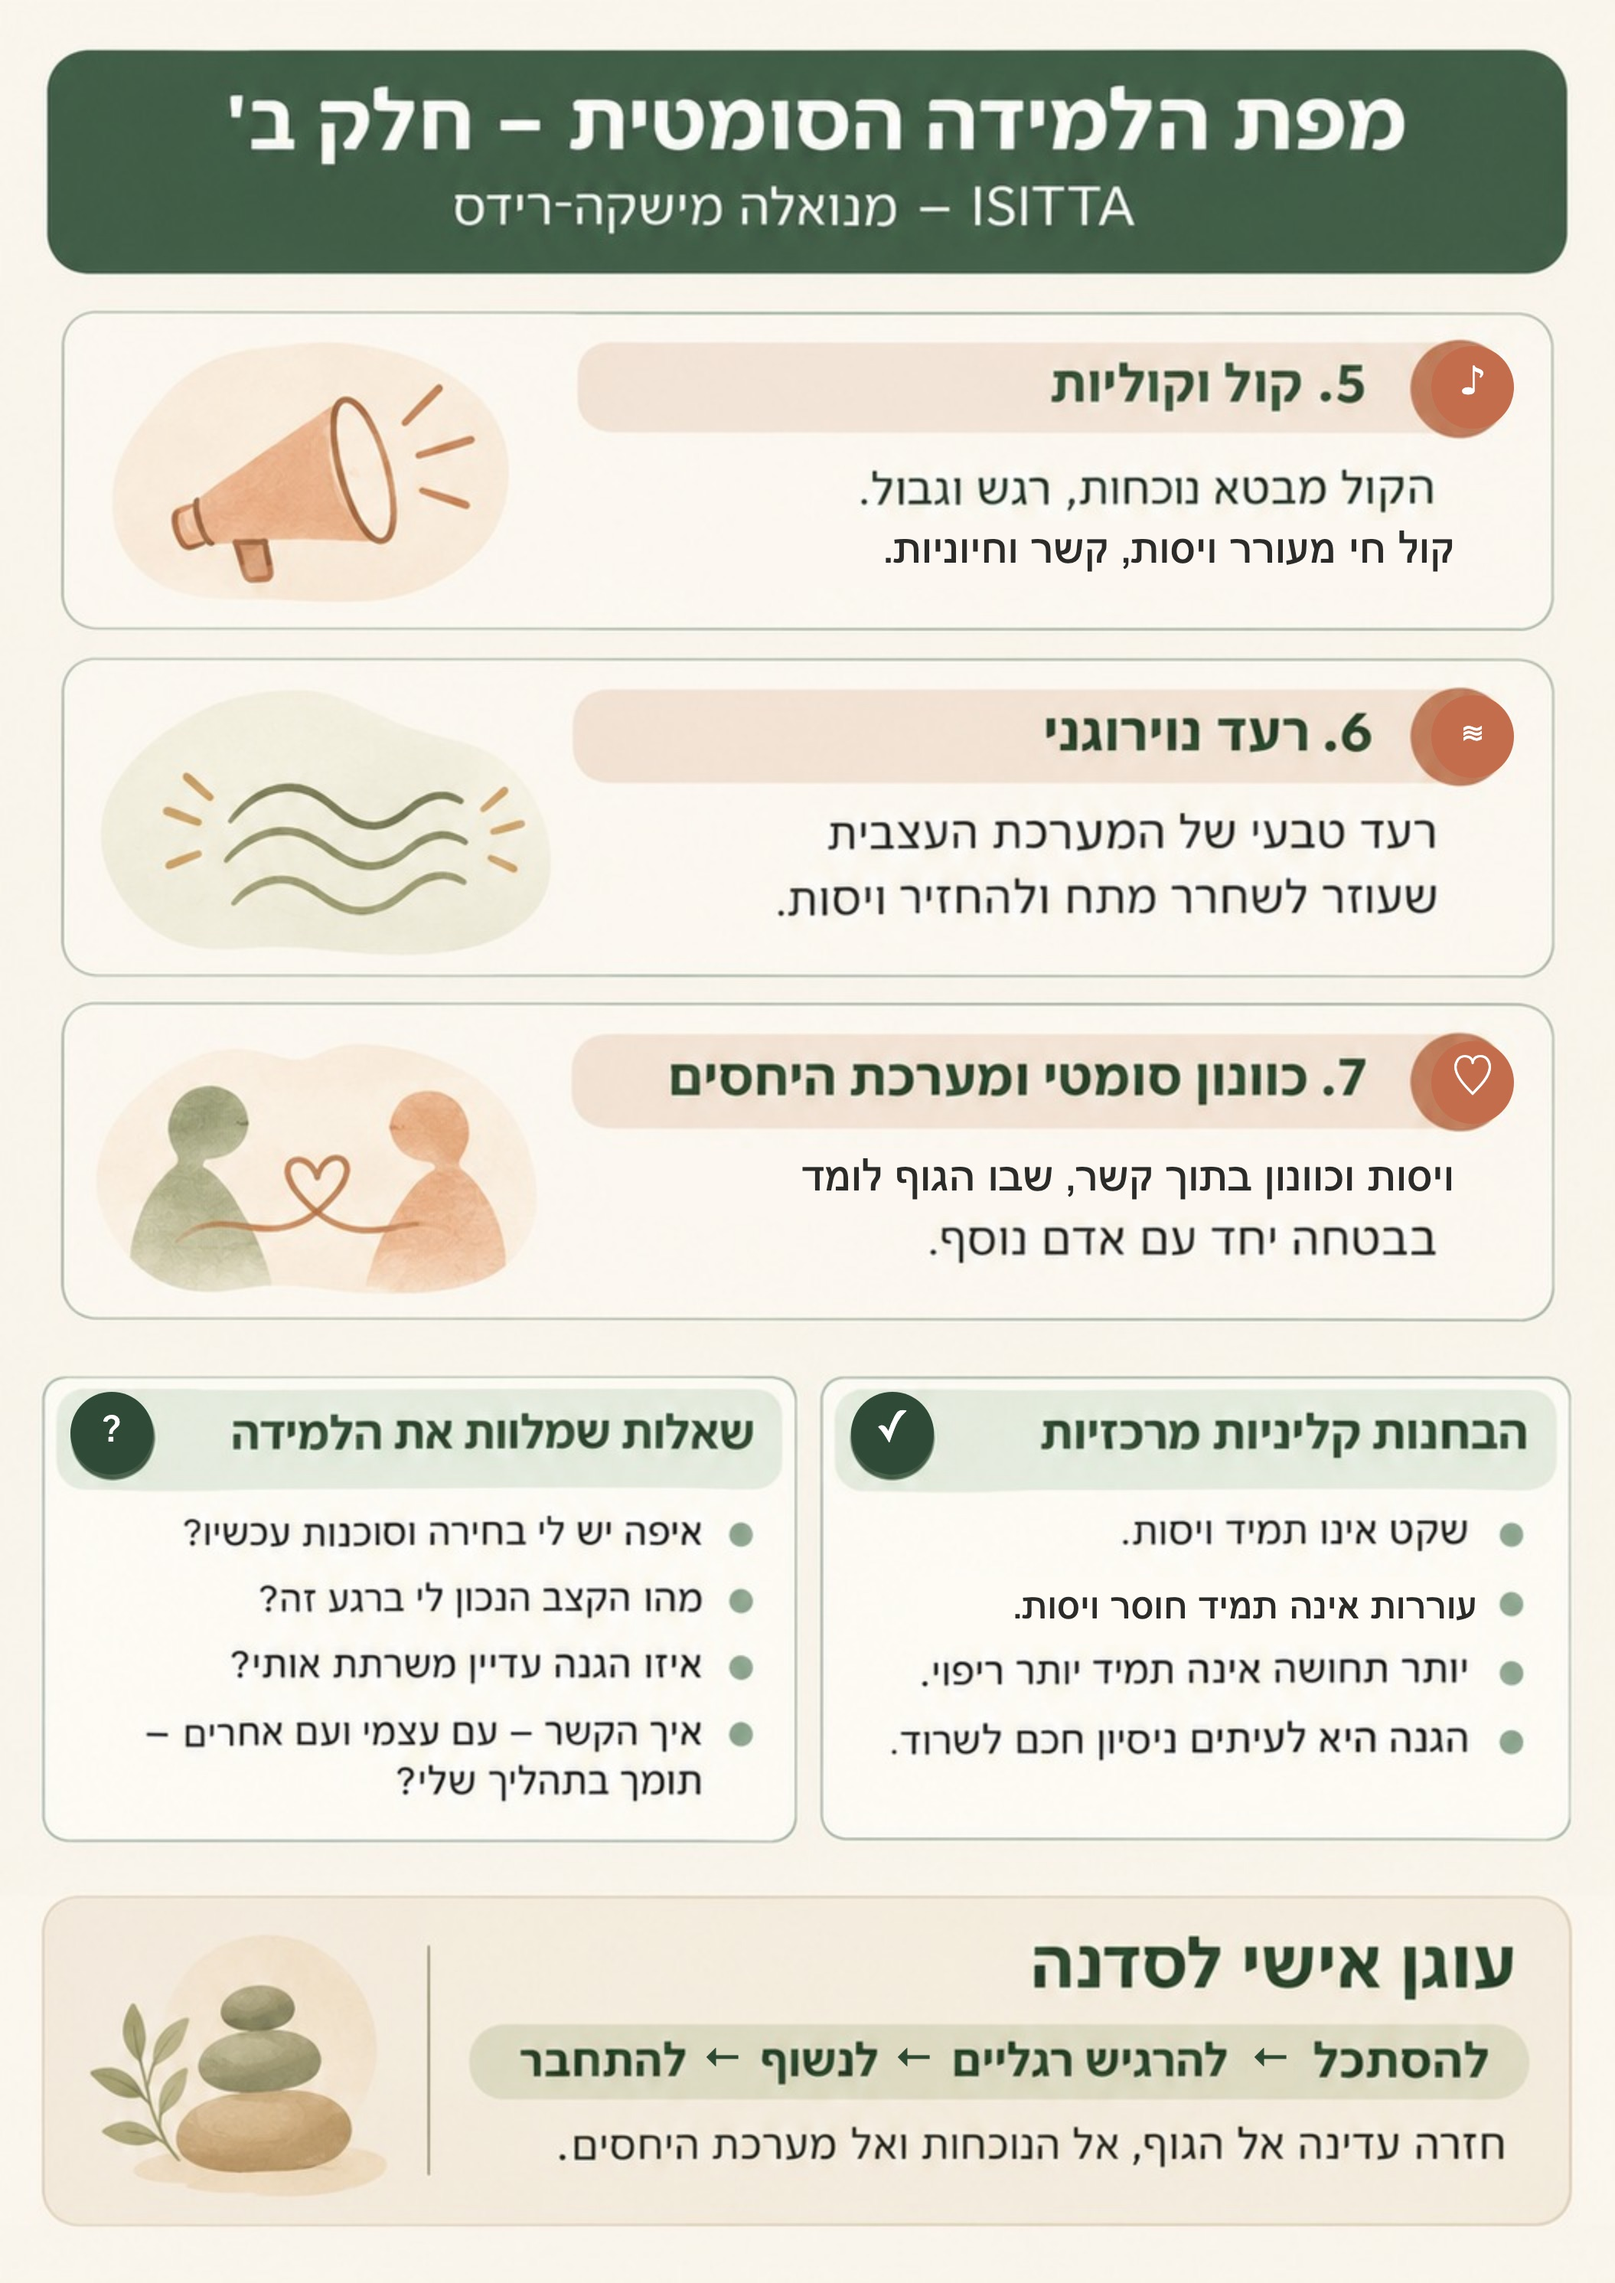
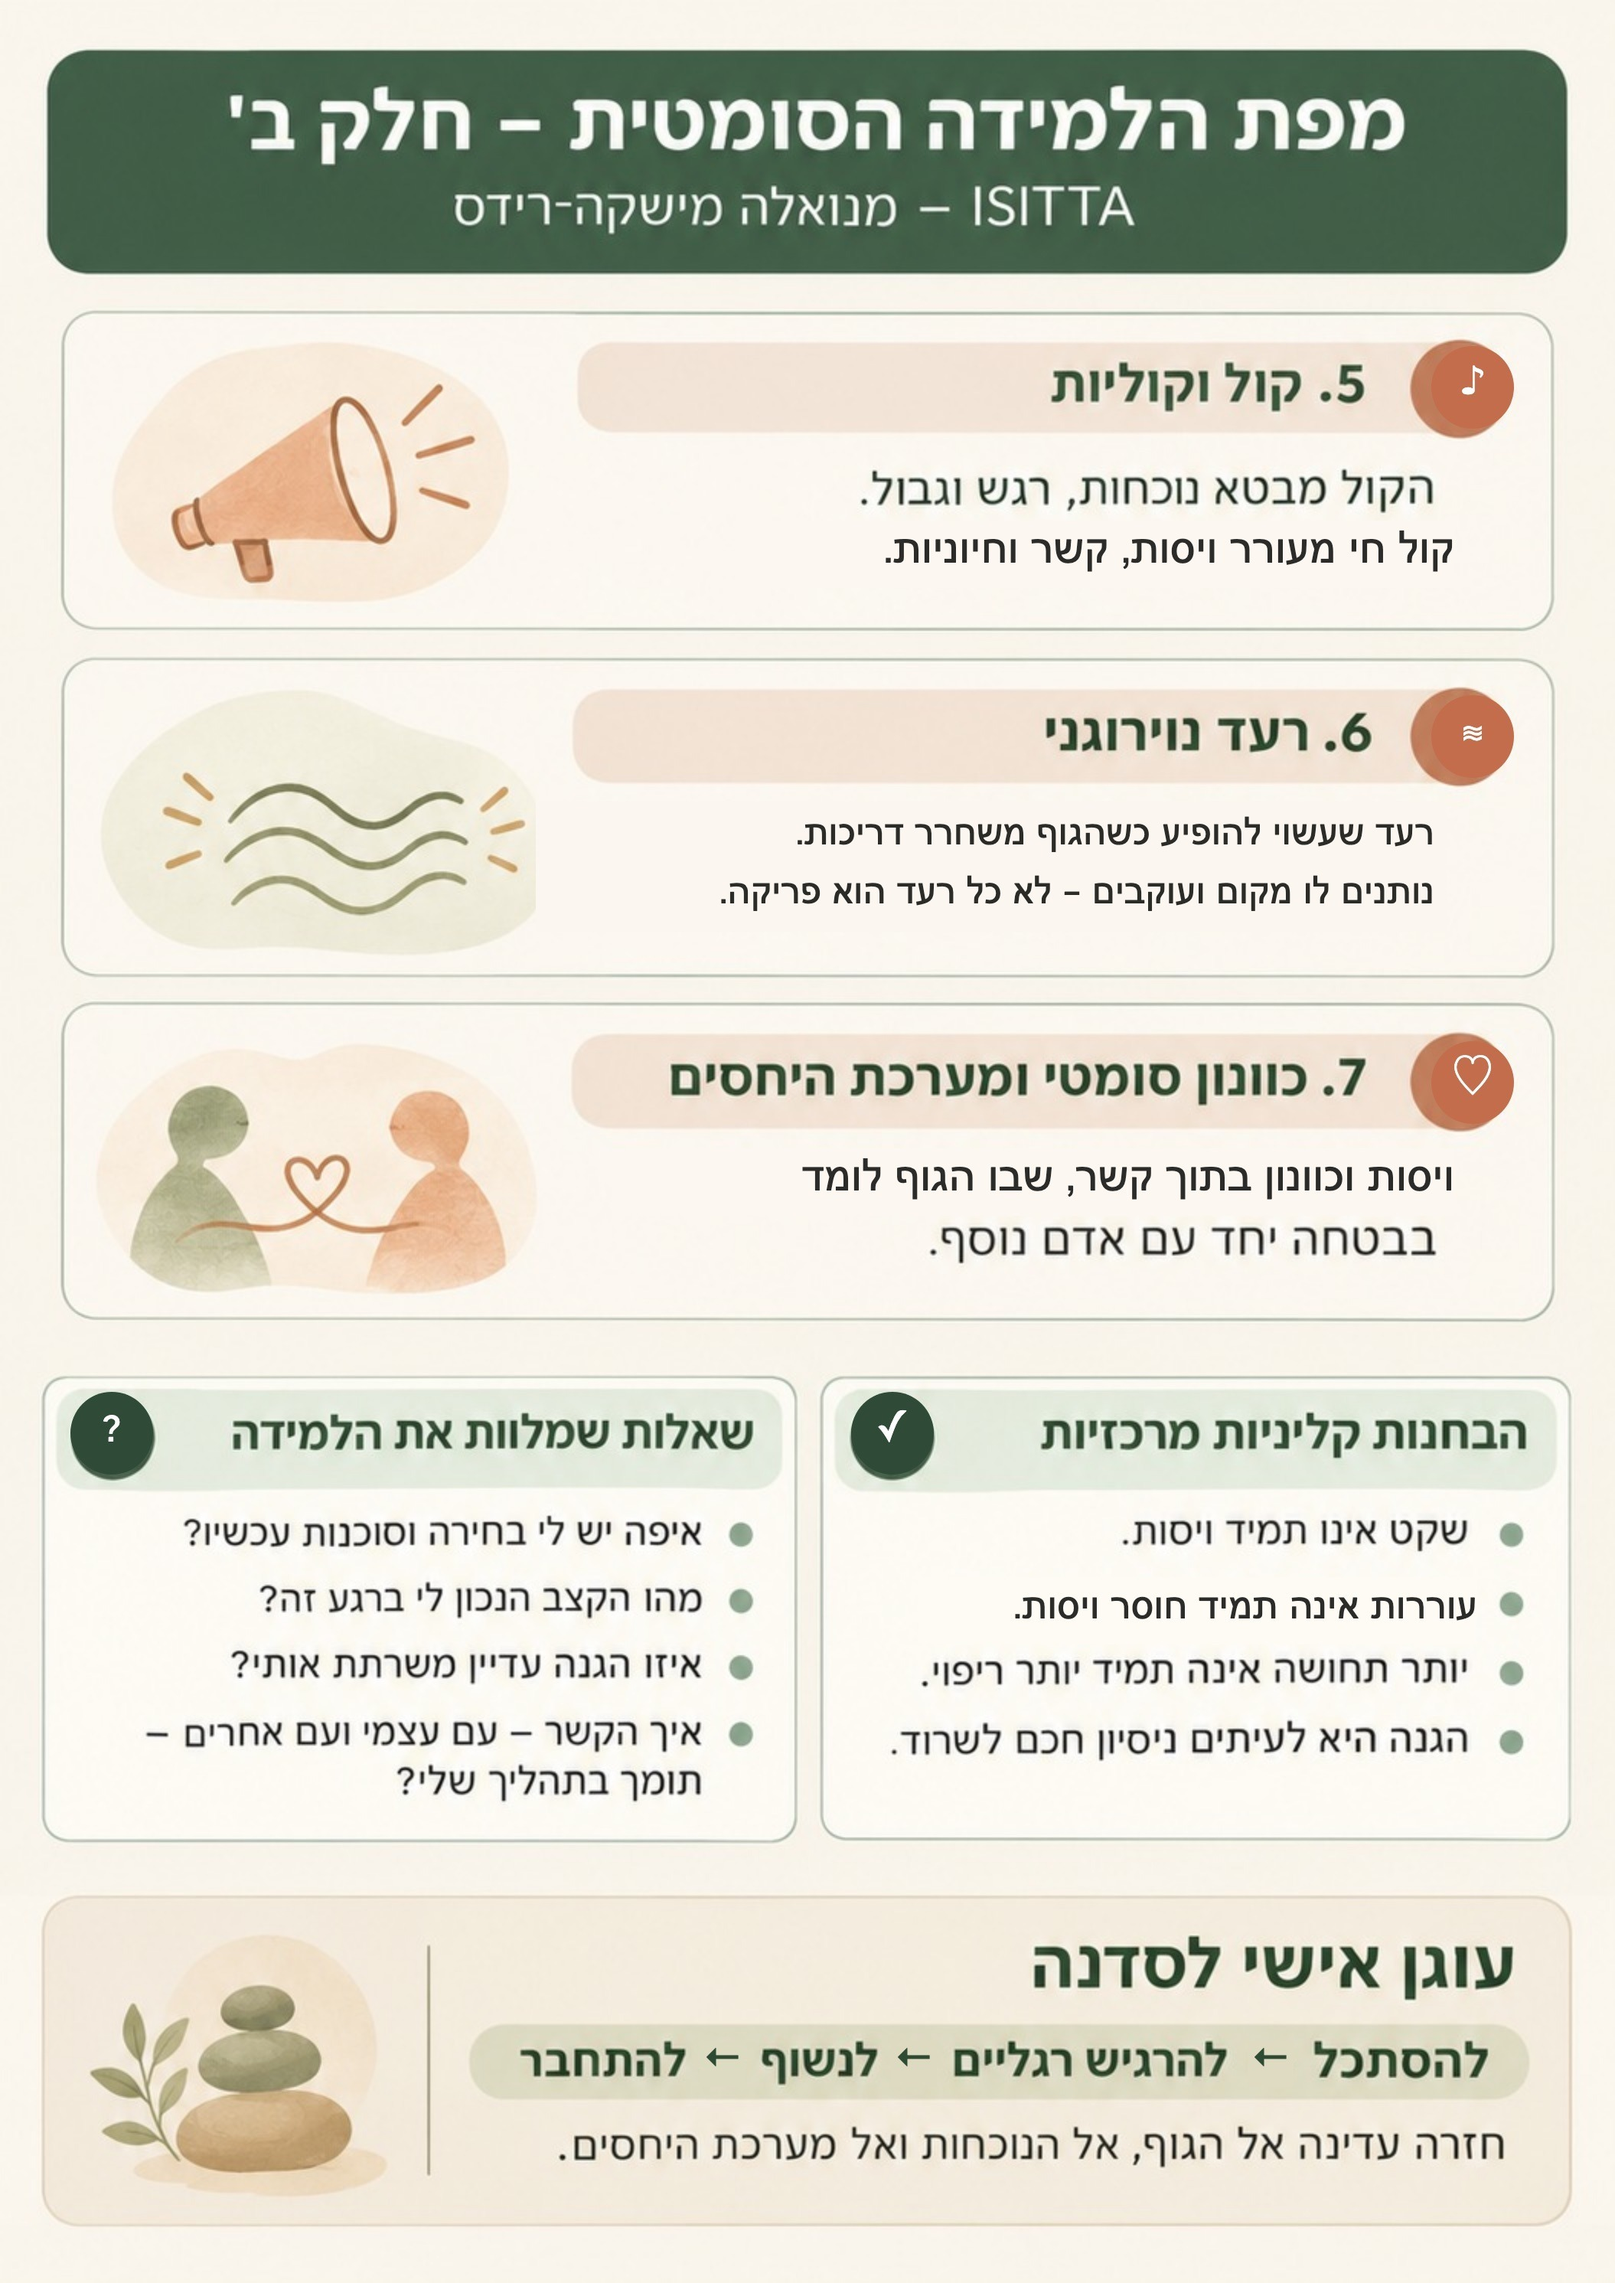
Napkins: day 4 updated, day 5 added (HE + EN); map: tremor sentence + glossary row

Changed region(s): [[0.4621, 0.3431, 0.8934, 0.4054]]

diff --git a/n-lglkhfgpisyc/index.html b/n-lglkhfgpisyc/index.html
@@ -39,12 +39,14 @@
     <figure><img src="he/2.jpg" alt="יום 2 על מפית" loading="lazy"></figure>
     <figure><img src="he/3.jpg" alt="יום 3 על מפית" loading="lazy"></figure>
     <figure><img src="he/4.jpg" alt="יום 4 על מפית" loading="lazy"></figure>
+    <figure><img src="he/5.jpg" alt="יום 5 על מפית" loading="lazy"></figure>
   </section>
   <section class="set" id="en" lang="en" dir="ltr">
     <figure><img src="en/1.jpg" alt="Day 1 on a napkin"></figure>
     <figure><img src="en/2.jpg" alt="Day 2 on a napkin" loading="lazy"></figure>
     <figure><img src="en/3.jpg" alt="Day 3 on a napkin" loading="lazy"></figure>
     <figure><img src="en/4.jpg" alt="Day 4 on a napkin" loading="lazy"></figure>
+    <figure><img src="en/5.jpg" alt="Day 5 on a napkin" loading="lazy"></figure>
   </section>
 </main>
 <footer>
